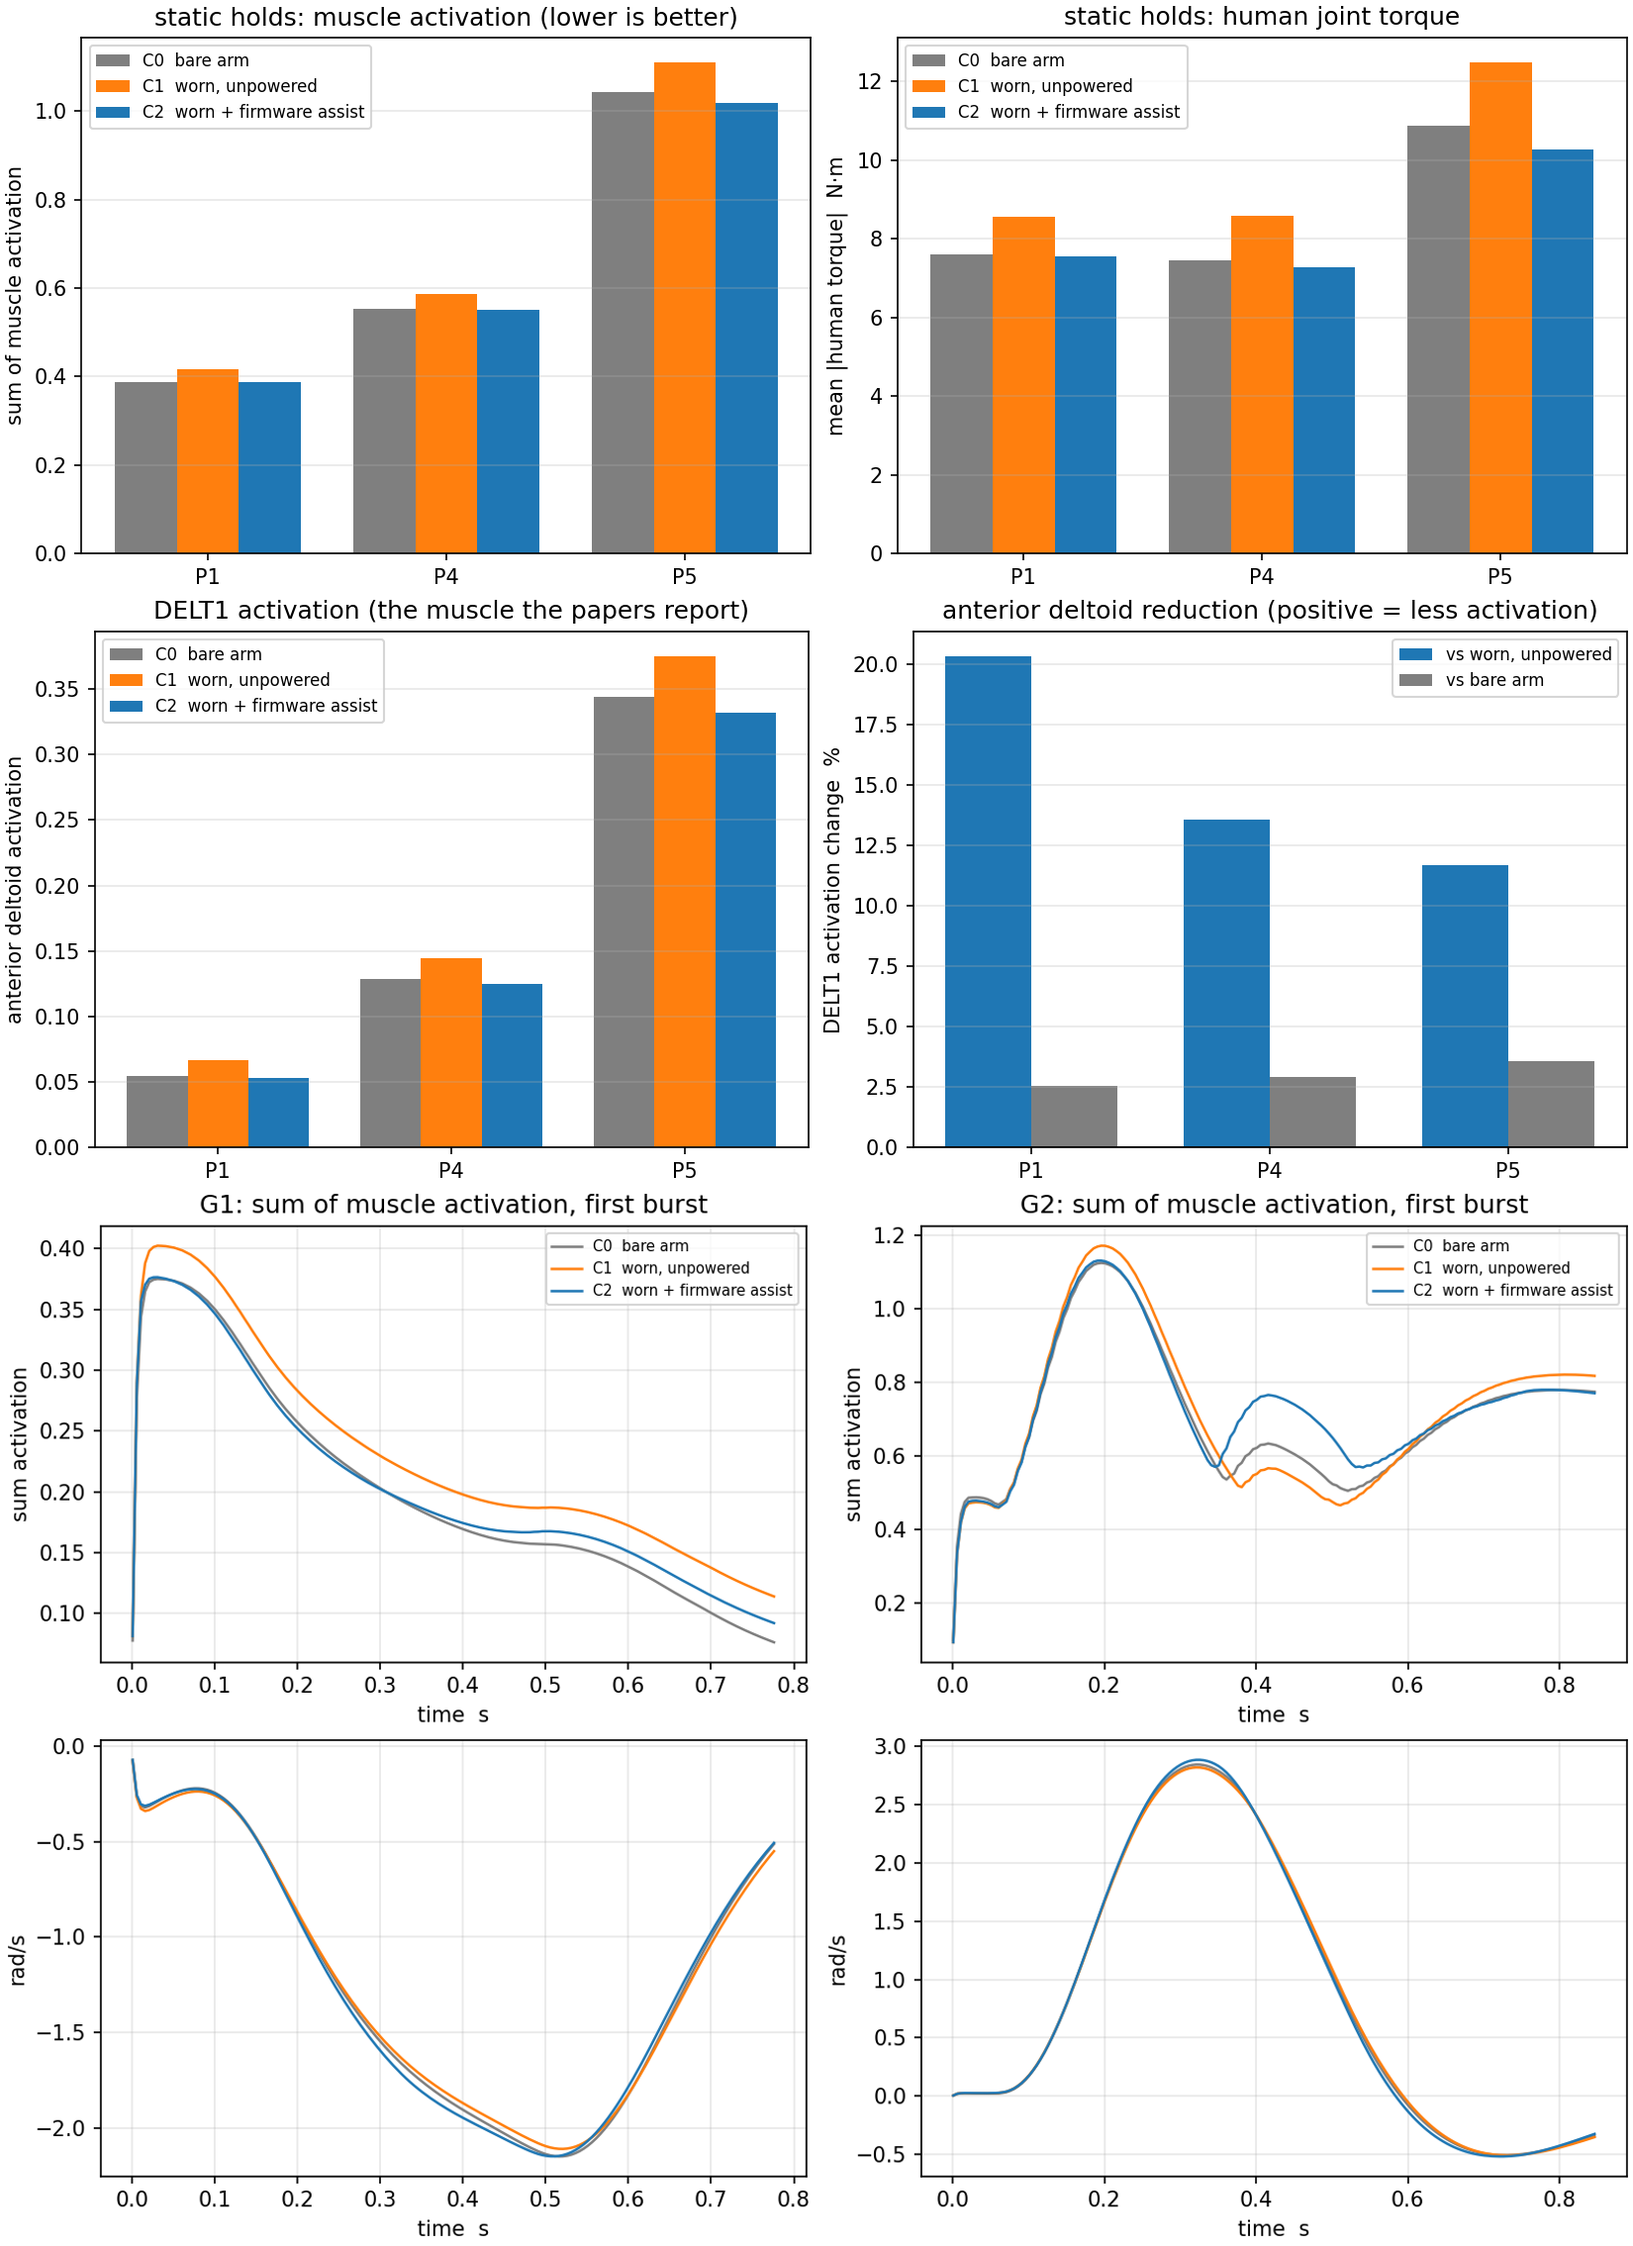
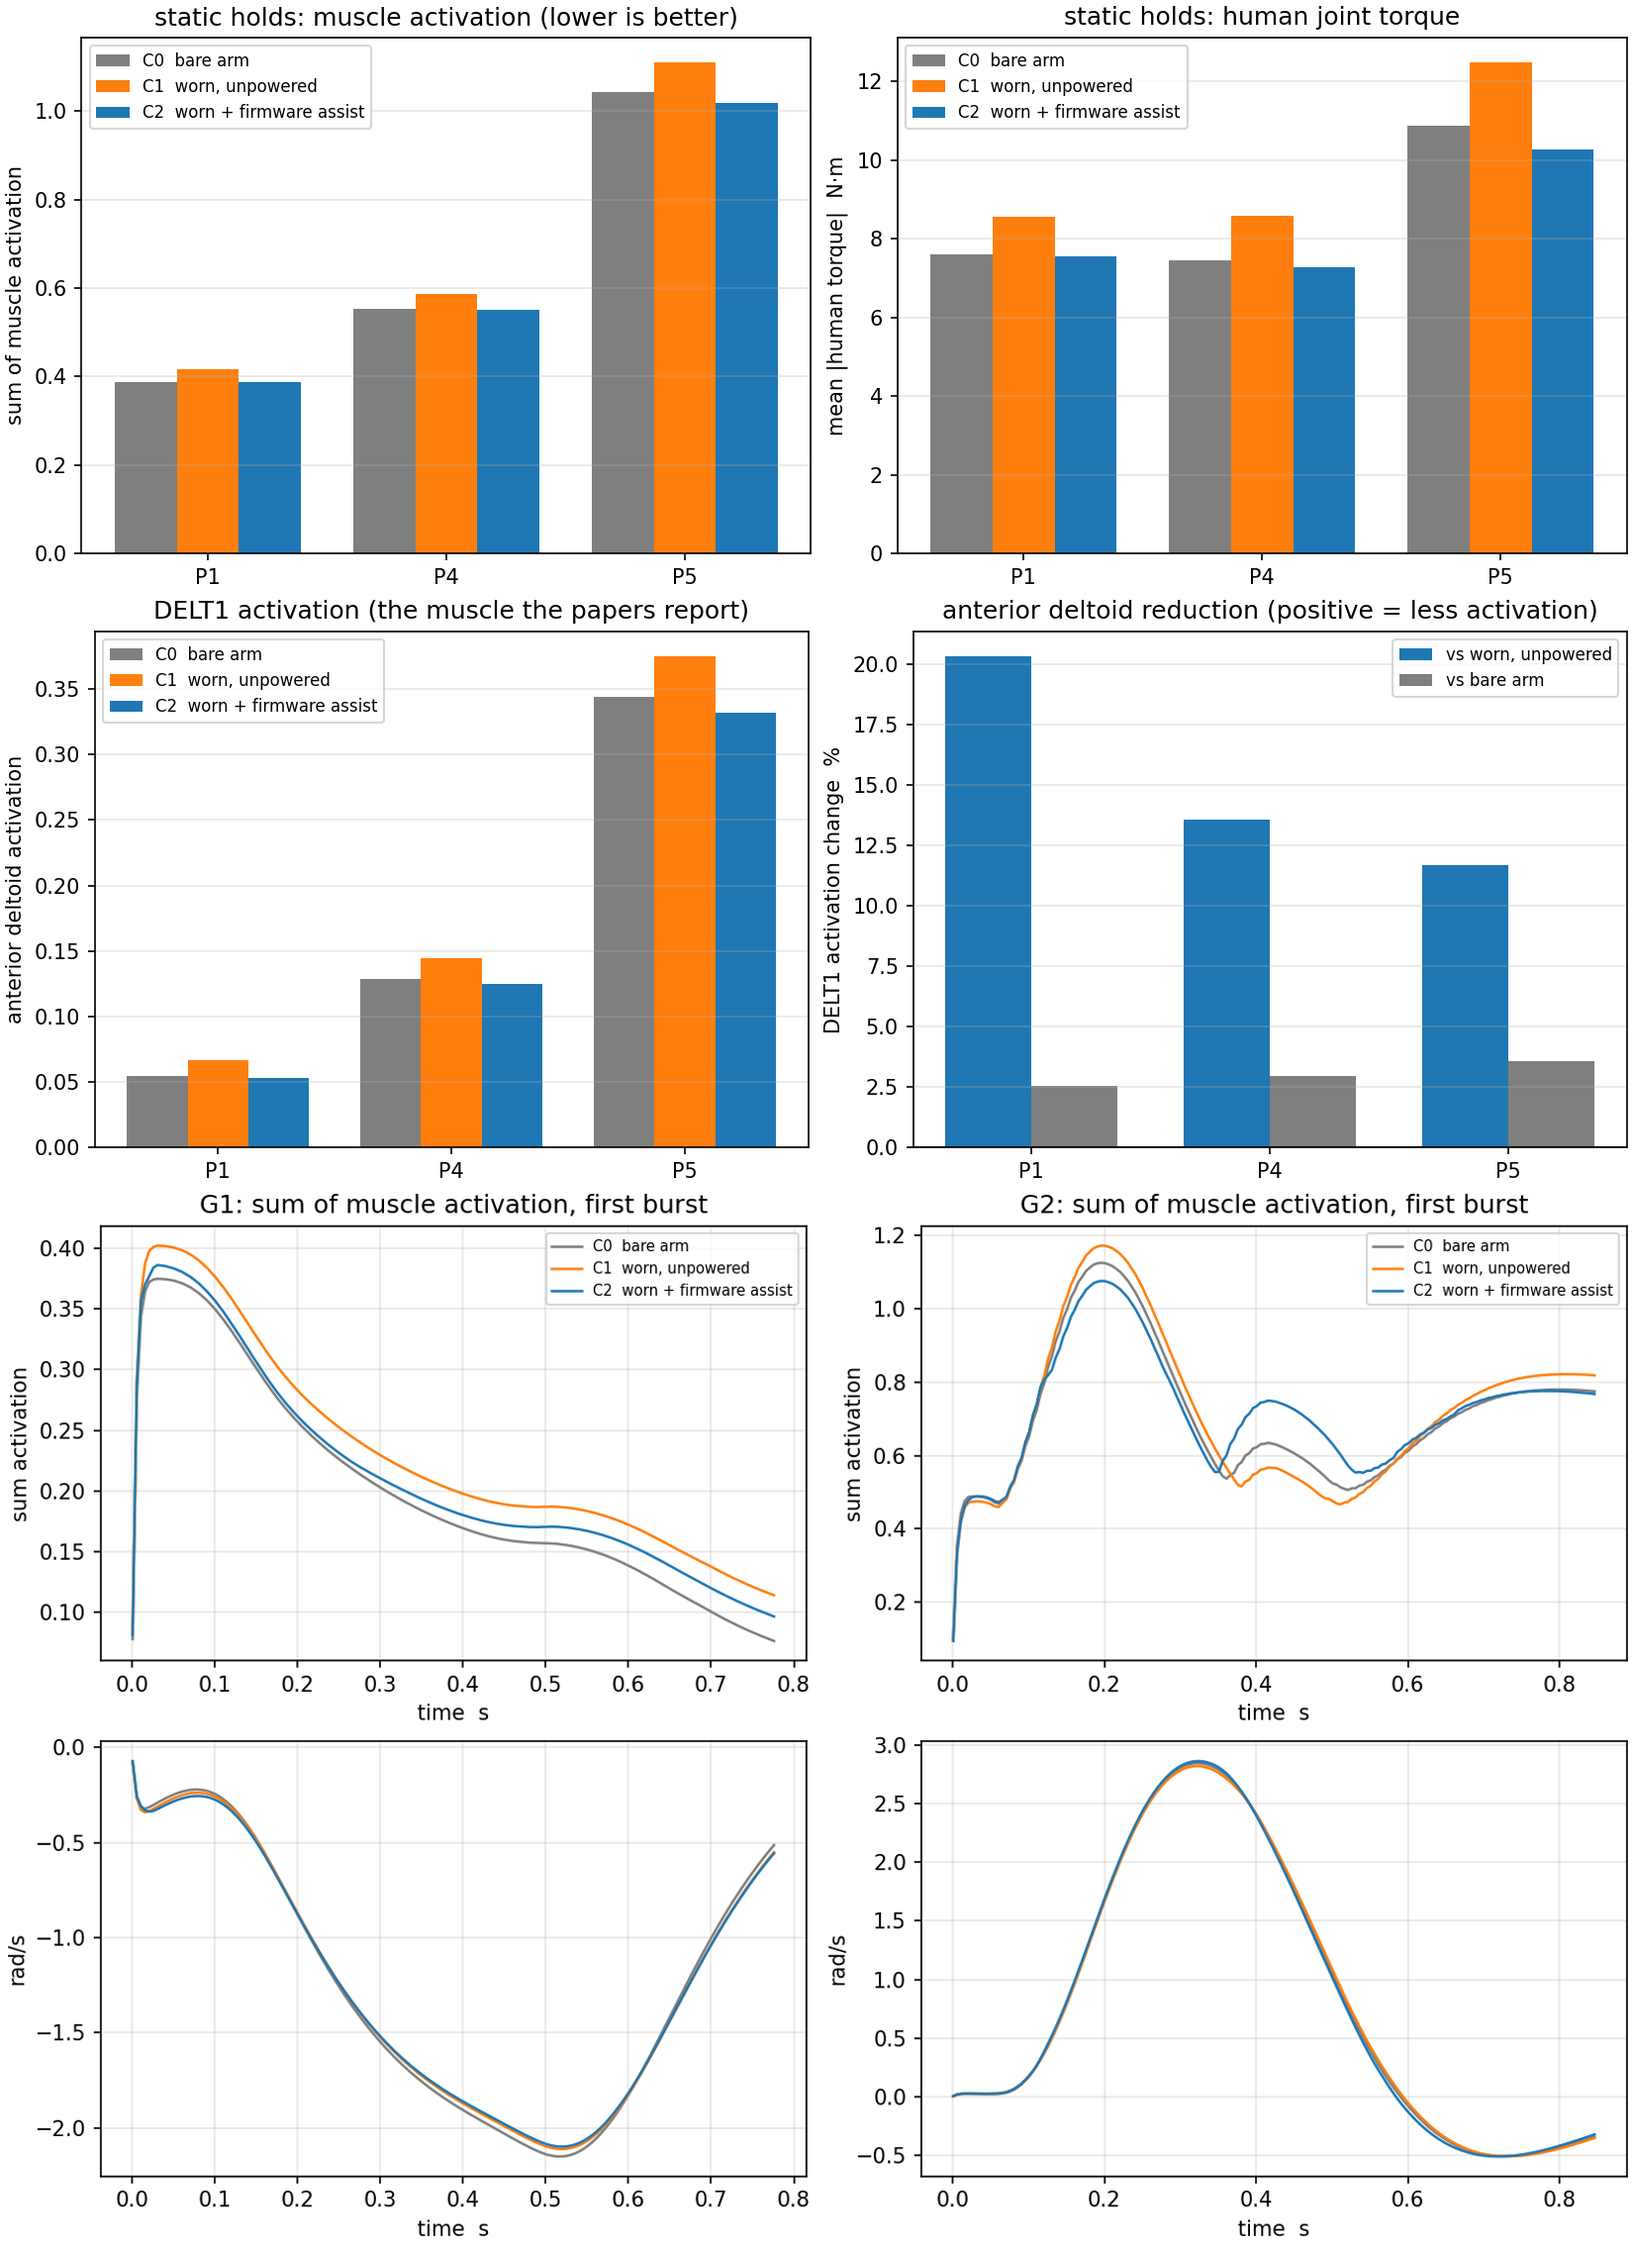
docs(sim): re-run the burst experiments with the instant Amplify switch
With the new timing (10 deg/s start, instant switch, 150 ms suspension) the
mallet strike improves to 6.4% below the unpowered case and also beats the
bare arm (4.56 vs 4.69 Nm); its positive human work falls below both C0 and C1.
The rapid lift still moves only 0.7% because its peak is inertia-dominated.

The activation curves also show an anomaly worth flagging: after the lift the
assisted case (blue) sits above the unpowered one, and its positive work is
slightly higher, which suggests the increment keeps pushing while the arm
decelerates. Recorded as unresolved, with the figures and the report updated.

Generated with [Devin](https://devin.ai)

diff --git a/firmware/Exoskeleton_F446/sim/mujoco_arm/docs/validation_report.md b/firmware/Exoskeleton_F446/sim/mujoco_arm/docs/validation_report.md
@@ -88,11 +88,17 @@
 | 指标 | G1 锤击（肘 100→45°，参考 180 ms） | G2 快速抬举（肩 5→45°，参考 250 ms） |
 |---|---|---|
 | 峰值力矩 C0 / C1 / C2 | 4.69 / 4.87 / **4.56** N·m | 44.7 / 46.5 / 46.1 N·m |
-| 动作时间 | 425 ms | 220 ms |
+| 动作时间 | 435 ms | 225 ms |
 | 稳态误差 | 1.2° | 0.2° |
-| 助力收益（C2 vs C1） | **−6.4%** | −0.7% |
+| 人体正功 C0 / C1 / C2 | 18.8 / 19.5 / **18.7** J | 119.6 / 123.0 / 124.5 J |
+| 外骨骼正功 | 2.0 J | 13.3 J |
+| 助力收益（C2 vs C1，峰值力矩） | **−6.4%** | −0.7% |
 
-Amplify 时序已按 ExoKit 的做法改为"瞬时切换"（原 200 ms 斜坡使增量到 241 ms 才达 90%，即爆发结束才起作用）；改后增量在 **121 ms** 全额介入，肘部收益由 −4.5% 提升到 −6.4%。肩部仍只有 −0.7%，因为 250 ms 爆发的峰值力矩由惯性主导（4.6 N·m 对 46 N·m），放开上限到 575 mNm 也无改善（已验证）。
+Amplify 时序已按 ExoKit 的做法改为"瞬时切换"（原 200 ms 斜坡使增量到 241 ms 才达 90%，即爆发结束才起作用）；改后增量在 **121 ms** 全额介入，肘部收益由 −4.5% 提升到 **−6.4%**，且 C2 的峰值力矩与正功都低于裸臂 C0。
+
+肩部仍只有 −0.7%，因为 250 ms 爆发的峰值力矩由惯性主导（4.6 N·m 对 46 N·m），放开上限到 575 mNm 也无改善（已验证）。
+
+**待查异常**：G2 的 C2 人体正功（124.5 J）仍高于 C1（123.0 J），激活峰值也略高（1.94 vs 1.85）。怀疑是瞬时切换后助力在**减速段**仍在推，人需要用更大的制动力；也可能与"抬臂方向才助力"的门控有关。这一项尚未查清，不作为结论使用。
 
 ![爆发结果](figures/04_burst.png)
 

diff --git a/Main_ project/docs/development_schedule.md b/Main_ project/docs/development_schedule.md
@@ -3026,3 +3026,13 @@ M6（应用层完整闭环、肌肉模型）保持可选，不在本次批准范
 - 验证：主机测试 **125 项**通过；仿真中增量介入时刻由 241 ms 提前到 **121 ms** 并全额；肘部锤击峰值力矩收益 −4.5% → **−6.4%**；肩部爆发仍 −0.7%（惯性主导，放开上限到 575 也无改善，已验证）。
[1 lines of base64/hex data omitted]
 - 遗留与下一步：肩部爆发若要有可见收益，只能提高执行器能力或把动作定义在 ≥600 ms；时序参数（10°/s、瞬时、150 ms）尚需台架观察是否引起速度噪声误触发。
+
+### 2026-10-27｜用新时序重跑爆发实验
+
+- 用户决定：不考虑编码器噪声误触发的问题，直接用新时序重跑爆发实验。
+- 实际结果（肌肉驱动，新时序 10°/s + 瞬时 + 150 ms；`build/sim-runs/report-muscle-fastamp/`）：
+  - G1 锤击：峰值力矩 C0 4.69 / C1 4.87 / C2 **4.56** N·m（相对穿戴 −6.4%，**且低于裸臂 −2.8%**）；人体正功 18.8 / 19.5 / **18.7** J；外骨骼正功 2.0 J；动作 435 ms。
+  - G2 快速抬举：峰值 44.7 / 46.5 / 46.1 N·m（−0.7%）；人体正功 119.6 / 123.0 / 124.5 J；外骨骼正功 13.3 J；动作 225 ms、稳态误差 0.2°。
+- **待查异常**：G2 的 C2 人体正功与激活峰值仍略高于 C1（124.5 vs 123.0 J、1.94 vs 1.85），怀疑瞬时切换后助力在减速段继续推、人需要更大制动力。未查清，不作为结论。
+- 报告与图已更新（`docs/validation_report.md`、`docs/figures/01–04`）。
+- 参数/接线变化：无（仅重跑与文档）。
